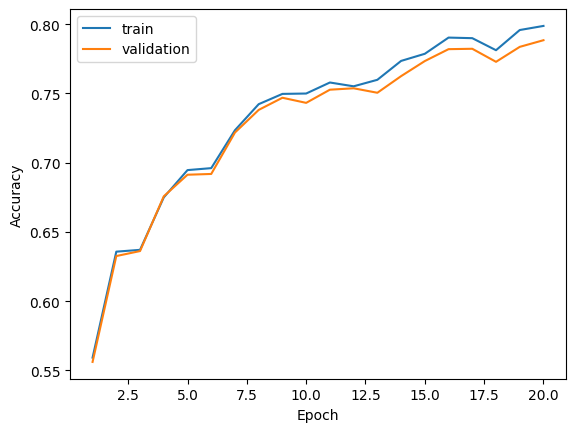
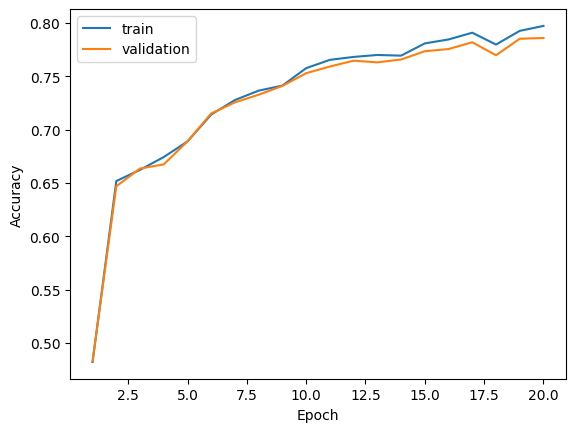
fix: loss function overflow error

diff --git a/hw1/hw1-q1.py b/hw1/hw1-q1.py
@@ -86,9 +86,6 @@ class LogisticRegression(LinearModel):
 
 
 class MLP(object):
-    # Q3.2b. This MLP skeleton code allows the MLP to be used in place of the
-    # linear models with no changes to the training loop or evaluation code
-    # in main().
     def __init__(self, n_classes, n_features, hidden_size):
         # Initialize an MLP with a single hidden layer.
         units = [n_features, hidden_size, n_classes]
@@ -96,7 +93,7 @@ class MLP(object):
         # NOTE: input is  not included
         self.layers = 2
         self.g = [lambda x: x, lambda x: np.maximum(0, x), lambda x: x] # activation functions
-        self.deriv_g = [np.vectorize(lambda x: 1), np.vectorize(lambda x: 1 if x > 0 else 0), np.vectorize(lambda x: 1)] # derivate of activation functions
+        self.deriv_g = [np.vectorize(lambda x: 1), np.vectorize(lambda x: x > 0), np.vectorize(lambda x: 1)] # derivate of activation functions
 
         mu, sigma = 0.1, 0.1 # mean and standard deviation
         self.W = ["empty"] + [np.random.normal(mu, sigma, size = (b, a)) 
@@ -166,6 +163,7 @@ class MLP(object):
         #debug("")
         #debug(F"COMPUTE LOSS")
         #debug(f"y_hat: {y_hat}")
+        y_hat = y_hat - np.max(y_hat) #To fix overflow
         probs = np.exp(y_hat) / np.sum(np.exp(y_hat))
         #debug(f"probs: {probs}")
         #debug(f"log probs: {np.log(probs)}")
@@ -204,6 +202,8 @@ class MLP(object):
         grad_h = [i for i in range(self.layers + 1)]
         grad_z = [i for i in range(self.layers + 1)]
 
+
+        y_hat = y_hat - np.max(y_hat) #To fix overflow
         y_hat = np.expand_dims(y_hat, axis = 1)
         #debug(f"y_hat: {y_hat}")
         softmax = np.exp(y_hat) / np.sum(np.exp(y_hat))
